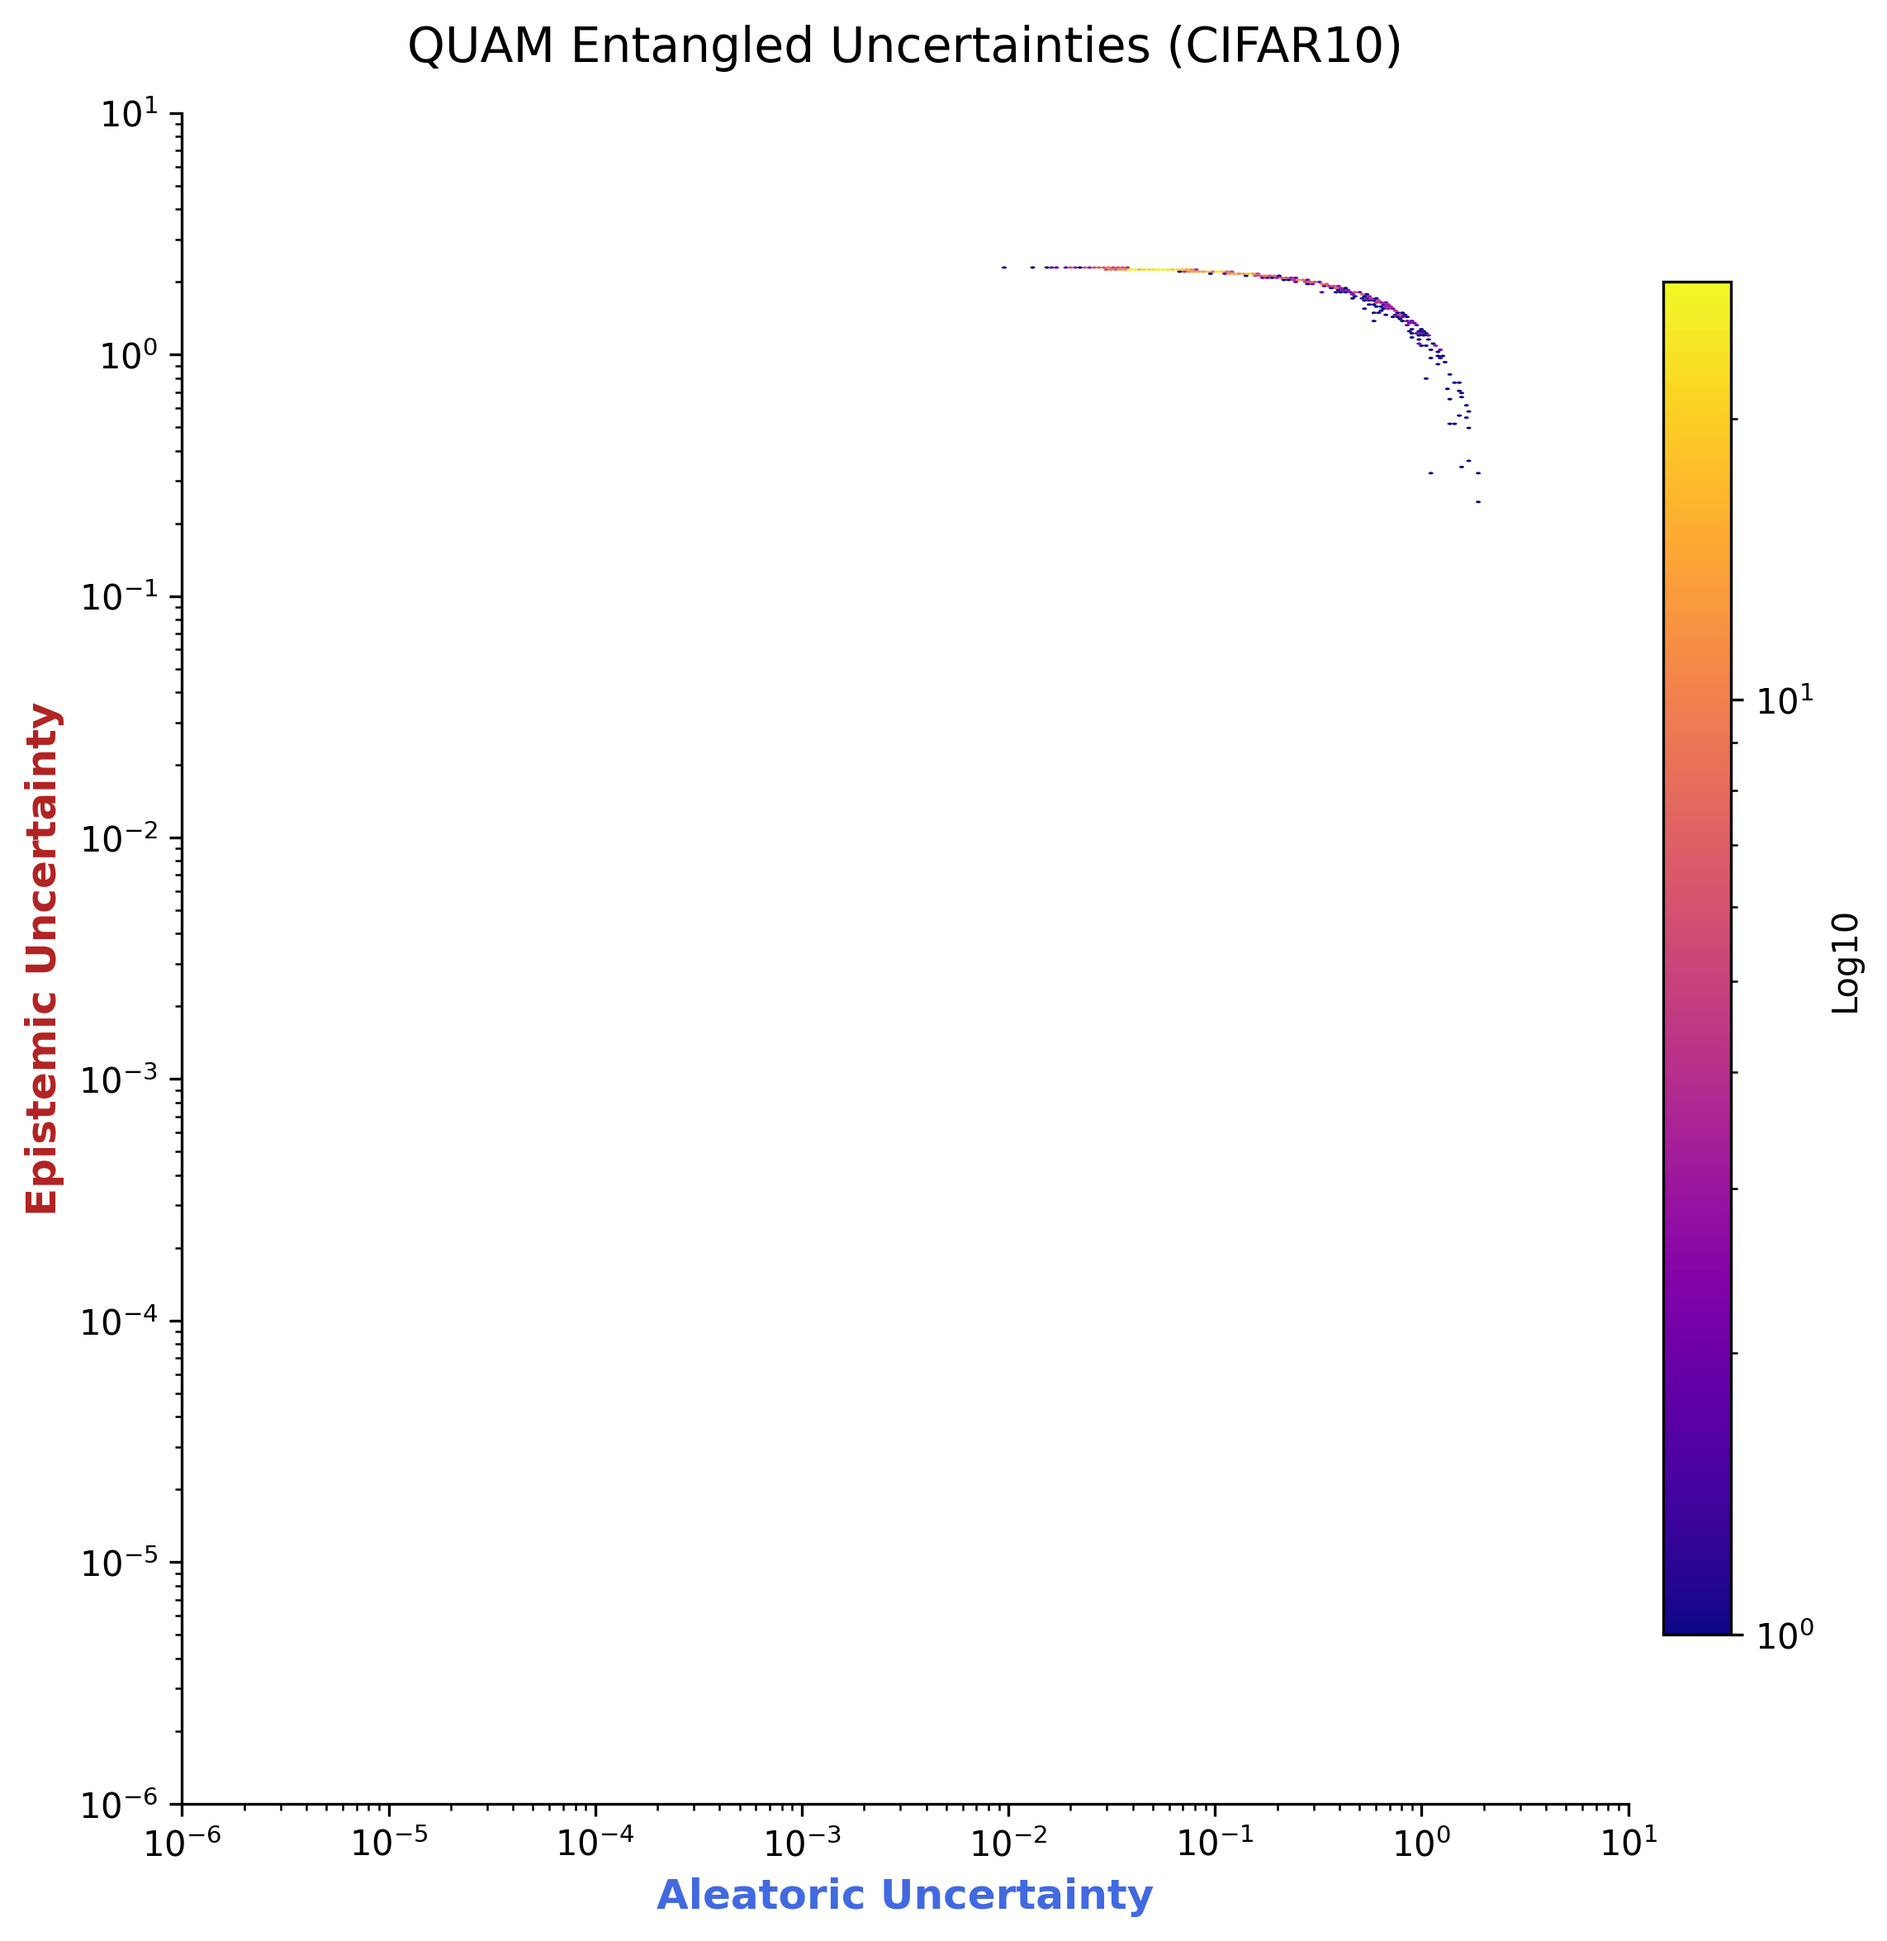
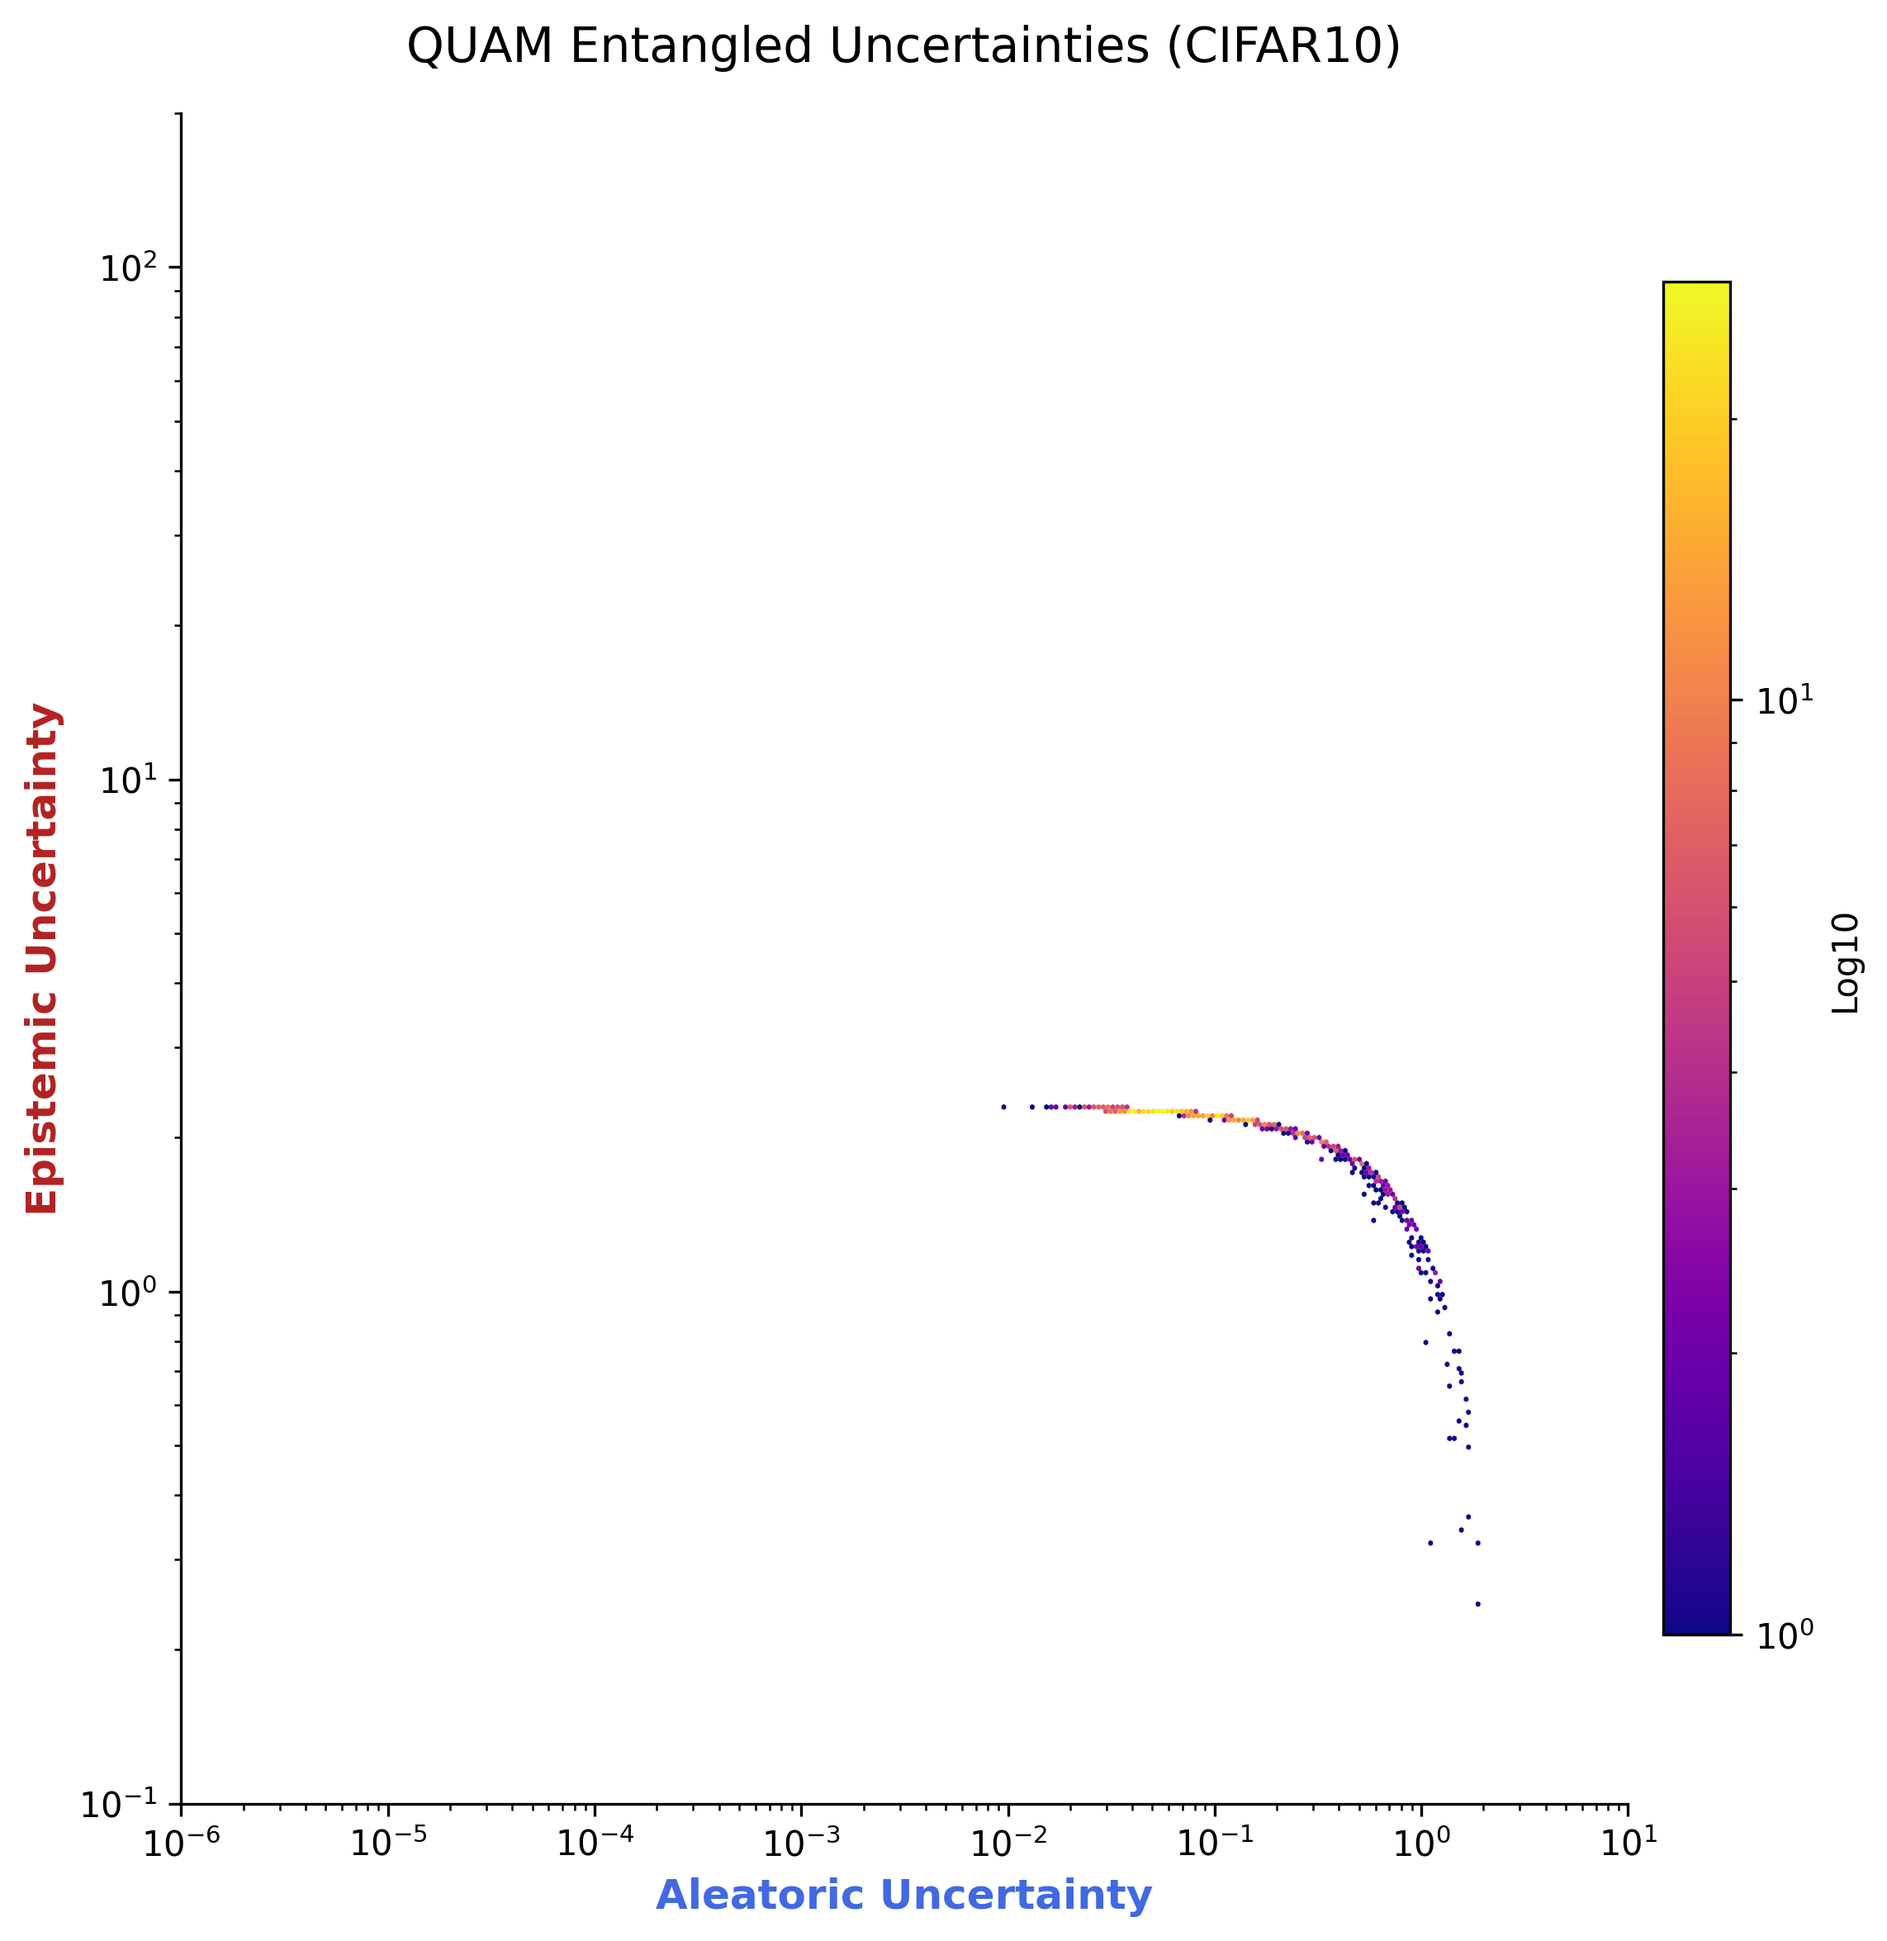
Refactor code structure for improved readability and maintainability

diff --git a/py_combined.py b/py_combined.py
@@ -1,0 +1,86 @@
+import os
+import torch
+import pickle
+import numpy as np
+import matplotlib.pyplot as plt
+from helper_functions import calculate_uncertainty_setting_a, calculate_uncertainty_setting_b
+
+# --- CONFIGURATION ---
+DATASET = "cifar10"
+RESULTS_DIR = "results"
+N_SAMPLES = 1000
+os.makedirs(RESULTS_DIR, exist_ok=True)
+
+x_lims = (1e-4, 5e1)
+y_lims = (1e-4, 5e1)
+
+def load_and_calculate(algo_name, math_setting):
+    file_path = f"data/{algo_name}_{DATASET}_preds.pkl"
+    print(f"Loading {file_path}...")
+    with open(file_path, 'rb') as f:
+        data = pickle.load(f)
+    
+    avg_pred = torch.as_tensor(data['average_net_pred'])
+    samples = torch.as_tensor(data['sample_preds'])
+    
+    if samples.dim() == 3:
+        samples = samples.unsqueeze(2)
+        
+    if samples.min() < 0 or samples.max() > 1:
+        samples = torch.softmax(samples, dim=-1)
+        avg_pred = torch.softmax(avg_pred, dim=-1)
+        
+    samples = torch.clamp(samples, min=1e-10, max=1.0)
+    avg_pred = torch.clamp(avg_pred, min=1e-10, max=1.0)
+    
+    samples_sliced = samples[:, :N_SAMPLES, :, :]
+    
+    if math_setting == "A":
+        shape_for_a = samples_sliced.permute(1, 2, 0, 3)
+        res = calculate_uncertainty_setting_a(avg_pred, shape_for_a)
+    else:
+        res = calculate_uncertainty_setting_b(avg_pred, samples_sliced)
+        
+    aleatoric = np.clip(res['aleatoric'].cpu().numpy(), a_min=1e-14, a_max=None)
+    epistemic = np.clip(res['epistemic'].cpu().numpy(), a_min=1e-14, a_max=None)
+    return aleatoric, epistemic
+
+mcdo_ale, mcdo_epi = load_and_calculate("mcdo", "A")
+quam_ale, quam_epi = load_and_calculate("quam", "B")
+
+print("Drawing upgraded combined scatter plot...")
+fig, ax = plt.subplots(figsize=(9, 9), dpi=150)
+
+ax.scatter(mcdo_ale, mcdo_epi, c='dodgerblue', alpha=0.15, s=12, label='MCDO (Setting A)', edgecolors='none')
+ax.scatter(quam_ale, quam_epi, c='crimson', alpha=0.15, s=12, label='QUAM (Setting B)', edgecolors='none')
+
+mcdo_extreme_idx = np.argsort(mcdo_epi)[-50:]
+quam_extreme_idx = np.argsort(quam_epi)[-50:]
+
+ax.scatter(mcdo_ale[mcdo_extreme_idx], mcdo_epi[mcdo_extreme_idx], 
+           facecolors='none', edgecolors='blue', s=80, linewidths=1.5, alpha=0.8, label="MCDO Extremes")
+ax.scatter(quam_ale[quam_extreme_idx], quam_epi[quam_extreme_idx], 
+           facecolors='none', edgecolors='darkred', s=80, linewidths=1.5, alpha=0.8, label="QUAM Extremes")
+
+ax.set_xscale('log')
+ax.set_yscale('log')
+ax.set_xlim(x_lims)
+ax.set_ylim(y_lims)
+
+ax.grid(True, which="both", ls="--", alpha=0.2)
+
+ax.set_xlabel('Aleatoric Uncertainty', fontsize=14, fontweight='bold')
+ax.set_ylabel('Epistemic Uncertainty', fontsize=14, fontweight='bold')
+ax.set_title(f'MCDO vs QUAM Uncertainties ({DATASET.upper()})', fontsize=16, pad=15)
+
+for spine in ['top', 'right']:
+    ax.spines[spine].set_visible(False)
+
+leg = ax.legend(fontsize=11, loc='upper left')
+for lh in leg.legend_handles: 
+    lh.set_alpha(1)
+
+fig.tight_layout()
+filename = f"{RESULTS_DIR}/combined_mcdo_quam_{DATASET}_upgraded.png"
+fig.savefig(filename, bbox_inches='tight', dpi=300)
+print(f"Success! Saved as {filename}")

diff --git a/make_plots.py b/make_plots.py
@@ -17,17 +17,17 @@ from helper_functions import (
 #takes format: algoname_datasetname_preds.pkl
 #example: mcdo_mnist_preds.pkl
 #example: quam_emnist_preds.pkl
-ALGORITHM_NAME = "mcdo"
+ALGORITHM_NAME = "quam"
 DATASET_NAME = "cifar10"
 INPUT_FILE = f"data/{ALGORITHM_NAME}_{DATASET_NAME}_preds.pkl"
 RESULTS_DIR = "results"
-MATH_SETTING = "A"
+MATH_SETTING = "B"
 N_SAMPLES = 1000
 
 PLOT_SETTINGS = {
     "mnist":   {"x_lim": (1e-13, 1e1), "y_lim": (1e-14, 1e0)},
     "emnist":  {"x_lim": (1e-13, 1e1), "y_lim": (1e-14, 1e0)},
-    "cifar10": {"x_lim": (1e-6, 1e1),  "y_lim": (1e-6, 1e1)}
+    "cifar10": {"x_lim": (1e-6, 1e1),  "y_lim": (1e-1, 20e1)}
 }
 current_limits = PLOT_SETTINGS[DATASET_NAME]
 
@@ -98,17 +98,3 @@ plot_uncertainty_correlation(
 )
 
 #----------------EVALUATING-RETENTION-(MISCLASS)----------------------
-print("\n--- Retention Metrics (Using EPISTEMIC) ---")
-
-# We use the epistemic tensor to prove QUAM isolates the lack of knowledge!
-metrics = evaluate_missclass(
-    id_uncerts=math_results['epistemic'], 
-    id_uncerts_target=targets, 
-    id_uncerts_average_net_pred=avg_pred
-)
-
-print(f"AUROC: {metrics['AUROC']:.4f} (Higher is better)")
-print(f"AUPR:  {metrics['AUPR']:.4f}  (Higher is better)")
-print(f"FPR95: {metrics['FPR']:.4f}  (Lower is better)")
-print("-------------------------\n")
-
